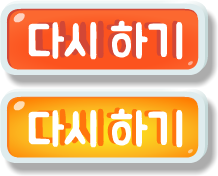
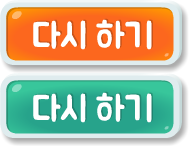
수정

diff --git a/game_fruit/game_3_1_5_hard.html b/game_fruit/game_3_1_5_hard.html
@@ -65,7 +65,7 @@
 										<p class="example">
 											<span class="img-txt">
 												<span class="img"><img src="../common/images/quiz_img_3_1_5_2.png" alt=""></span>
-												<span class="txt" style="padding-top:88px">6시 15분<span style="width: 70px;" class="example-write-box"></span>초</span>
+												<span class="txt" style="padding-top:88px">6시 15분 <span style="width: 70px;" class="example-write-box"></span>초</span>
 											</span>
 										</p>
 									</div>	
@@ -117,13 +117,13 @@
 							<!-- quiz choice -->
 							<div class="quiz quiz-choice hidden" data-answer="2">
 								<div class="quest">
-									<span class="quiz-num">3</span>준수는 방 청소를 4시 40분에 시작하여 30분 동안 청소를 했습니다. 
+									<span class="quiz-num">3</span>준수는 방 청소를 4시 40분에 시작하여 30분 동안 청소를 했습니다. 준수가 청소를 끝낸 시간은 몇 시 몇 분일까요?
 								</div>
-								<div class="quiz-example-wrap al_l type2">
+								<!-- <div class="quiz-example-wrap al_l type2">
 									<div class="inset">
-										<p class="example">준수가 청소를 끝낸 시간은 몇 시 몇 분일까요? </p>
+										<p class="example"> </p>
 									</div>	
-								</div>
+								</div> -->
 								<div class="list-con">
 									<div class="list">
 										<span>5시 5분</span>

diff --git a/common/css/common.css b/common/css/common.css
@@ -180,10 +180,10 @@ body {
 
 #game-content .restart-btn {
     position: absolute;
-    left: 536px;
+    left: 664px;
     top: 624px;
-    width: 218px;
-    height: 88px;
+    width: 189px;
+    height: 73px;
     background: url('../images/restart_btn.png') no-repeat;
     cursor: pointer;
     z-index: 2;
@@ -191,7 +191,23 @@ body {
 }
 #game-content .restart-btn:hover,
 #game-content .restart-btn.down {
-	background-position-y: -88px;
+	background-position-y: -73px;
+}
+
+#game-content .ending-home-btn {
+    position: absolute;
+    left: 434px;
+    top: 624px;
+    width: 213px;
+    height: 73px;
+    background: url('../images/ending_home_btn.png') no-repeat;
+    cursor: pointer;
+    z-index: 2;
+    will-change: transform;
+}
+#game-content .ending-home-btn:hover,
+#game-content .ending-home-btn.down {
+	background-position-y: -73px;
 }
 
 /* quiz-ox */

diff --git a/game_jungle/game_4_2_5_hard.html b/game_jungle/game_4_2_5_hard.html
@@ -61,7 +61,7 @@
 							<!-- quiz choice -->
 							<div class="quiz quiz-choice hidden" data-answer="3">
 								<div class="quest">
-									<span class="quiz-num">1</span>전년도보다 사과 수확량이 줄어든 때는 몇 년도 인가요?
+									<span class="quiz-num">1</span>전년보다 사과 수확량이 줄어든 때는 몇 년인가요?
 								</div>
 								<div class="quiz-example-wrap type4 mt0">
 									<div class="inset">
@@ -88,7 +88,7 @@
 							<!-- quiz choice -->
 							<div class="quiz quiz-choice hidden" data-answer="3">
 								<div class="quest">
-									<span class="quiz-num">2</span>2013년도의 사과 수확량은 얼마인가요?
+									<span class="quiz-num">2</span>2013년의 사과 수확량은 얼마인가요?
 								</div>
 								<div class="quiz-example-wrap type4">
 									<div class="inset">

diff --git a/ending_animal/js/content.js b/ending_animal/js/content.js
@@ -17,9 +17,13 @@
             $("#game-content").show();
         });
 
-        $(".restart-btn").on(click, function () {
+        $(".ending-home-btn").on(click, function () {
             //alert("홈 이동 학년 : "+$.getUrlVar("grade")+", 학기 : "+$.getUrlVar("term")+", 단원 : "+$.getUrlVar("lesson"));
             if(parent.window.hasOwnProperty("goHome")) parent.window.goHome();
+        });
+
+        $(".restart-btn").on(click, function () {
+            history.back();
         });
     });
 

diff --git a/ending_cat/js/content.js b/ending_cat/js/content.js
@@ -17,9 +17,13 @@
             $("#game-content").show();
         });
 
-        $(".restart-btn").on(click, function () {
+        $(".ending-home-btn").on(click, function () {
             //alert("홈 이동 학년 : "+$.getUrlVar("grade")+", 학기 : "+$.getUrlVar("term")+", 단원 : "+$.getUrlVar("lesson"));
             if(parent.window.hasOwnProperty("goHome")) parent.window.goHome();
+        });
+
+        $(".restart-btn").on(click, function () {
+            history.back();
         });
     });
 

diff --git a/ending_dragon/js/content.js b/ending_dragon/js/content.js
@@ -17,9 +17,13 @@
             $("#game-content").show();
         });
 
-        $(".restart-btn").on(click, function () {
+        $(".ending-home-btn").on(click, function () {
             //alert("홈 이동 학년 : "+$.getUrlVar("grade")+", 학기 : "+$.getUrlVar("term")+", 단원 : "+$.getUrlVar("lesson"));
             if(parent.window.hasOwnProperty("goHome")) parent.window.goHome();
+        });
+
+        $(".restart-btn").on(click, function () {
+            history.back();
         });
     });
 

diff --git a/ending_fruit/js/content.js b/ending_fruit/js/content.js
@@ -17,9 +17,13 @@
             $("#game-content").show();
         });
 
-        $(".restart-btn").on(click, function () {
+        $(".ending-home-btn").on(click, function () {
             //alert("홈 이동 학년 : "+$.getUrlVar("grade")+", 학기 : "+$.getUrlVar("term")+", 단원 : "+$.getUrlVar("lesson"));
             if(parent.window.hasOwnProperty("goHome")) parent.window.goHome();
+        });
+
+        $(".restart-btn").on(click, function () {
+            history.back();
         });
     });
 

diff --git a/ending_jungle/js/content.js b/ending_jungle/js/content.js
@@ -17,9 +17,13 @@
             $("#game-content").show();
         });
 
-        $(".restart-btn").on(click, function () {
+        $(".ending-home-btn").on(click, function () {
             //alert("홈 이동 학년 : "+$.getUrlVar("grade")+", 학기 : "+$.getUrlVar("term")+", 단원 : "+$.getUrlVar("lesson"));
             if(parent.window.hasOwnProperty("goHome")) parent.window.goHome();
+        });
+
+        $(".restart-btn").on(click, function () {
+            history.back();
         });
     });
 

diff --git a/ending_world/js/content.js b/ending_world/js/content.js
@@ -17,9 +17,13 @@
             $("#game-content").show();
         });
 
-        $(".restart-btn").on(click, function () {
+        $(".ending-home-btn").on(click, function () {
             //alert("홈 이동 학년 : "+$.getUrlVar("grade")+", 학기 : "+$.getUrlVar("term")+", 단원 : "+$.getUrlVar("lesson"));
             if(parent.window.hasOwnProperty("goHome")) parent.window.goHome();
+        });
+
+        $(".restart-btn").on(click, function () {
+            history.back();
         });
     });
 

diff --git a/game_fruit/game_3_1_5_normal.html b/game_fruit/game_3_1_5_normal.html
@@ -82,7 +82,7 @@
 							<!-- quiz choice -->
 							<div class="quiz quiz-choice hidden" data-answer="2">
 								<div class="quest">
-									<span class="quiz-num">2</span>그림을 보고 (&nbsp; &nbsp; &nbsp; ) 안에 알맞은 단위를 골라보세요.
+									<span class="quiz-num">2</span>그림을 보고 (&nbsp; &nbsp; &nbsp; ) 안에 알맞은 단위를 골라 보세요.
 								</div>
 								<div class="quiz-example-wrap type2">
 									<div class="inset">

diff --git a/ending_animal/clear.html b/ending_animal/clear.html
@@ -48,6 +48,10 @@
 					<div class="restart-btn"></div>
 					<!-- //restart-btn -->
 
+					<!-- ending-home-btn -->
+					<div class="ending-home-btn"></div>
+					<!-- //ending-home-btn -->
+
 				</div>
 				<!-- //game-content -->
 			</div>

diff --git a/ending_animal/failed.html b/ending_animal/failed.html
@@ -49,6 +49,10 @@
 					<div class="restart-btn"></div>
 					<!-- //restart-btn -->
 
+					<!-- ending-home-btn -->
+					<div class="ending-home-btn"></div>
+					<!-- //ending-home-btn -->
+
 				</div>
 				<!-- //game-content -->
 			</div>
